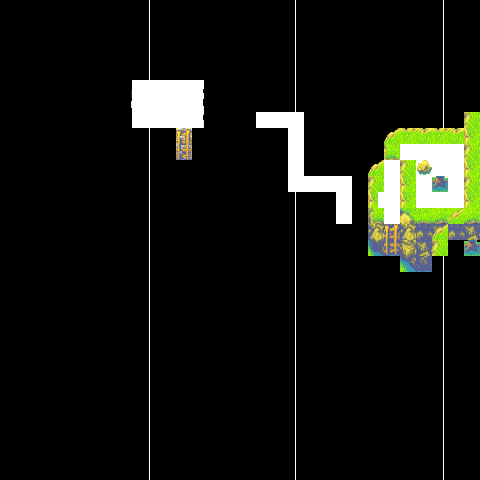
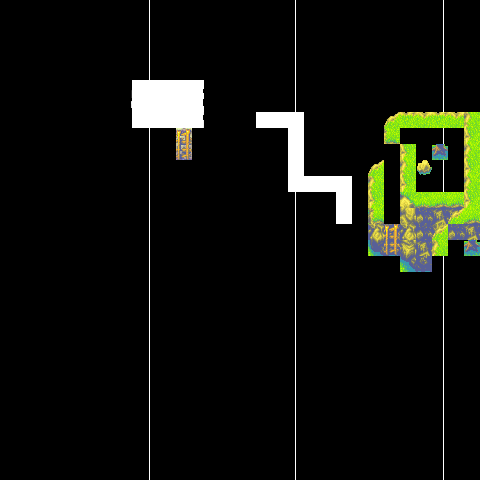
grow finish

Changed region(s): [[0.7812, 0.2188, 0.9688, 0.5]]

diff --git a/screens/menu.js b/screens/menu.js
@@ -204,14 +204,12 @@ export class MenuScreen {
         this.status_window.update();
         this.update_chars_info();
         this.status_window.show();
-        this.game.camera.roundPx = true;
     }
 
     close_menu() {
         if (!this.is_active()) return;
         this.horizontal_menu.close();
         this.status_window.close();
-        this.game.camera.roundPx = false;
     }
 }
 

diff --git a/index.js b/index.js
@@ -173,7 +173,7 @@ function preload() {
 
     game.time.advancedTiming = true;
     game.stage.smoothed = false;
-    game.camera.roundPx = false;
+    game.camera.roundPx = true;
     game.renderer.renderSession.roundPixels = true;
 
     game.camera.fade(0x0, 1);
